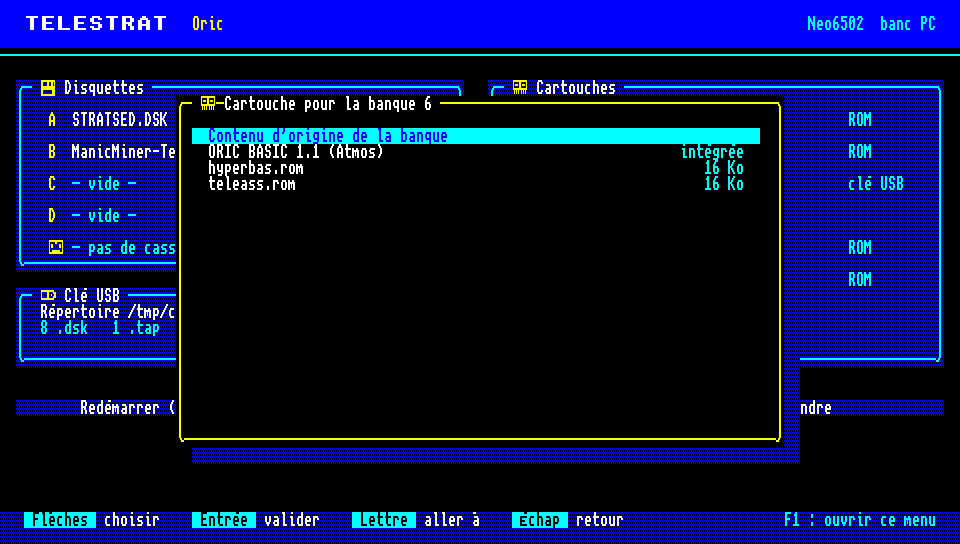
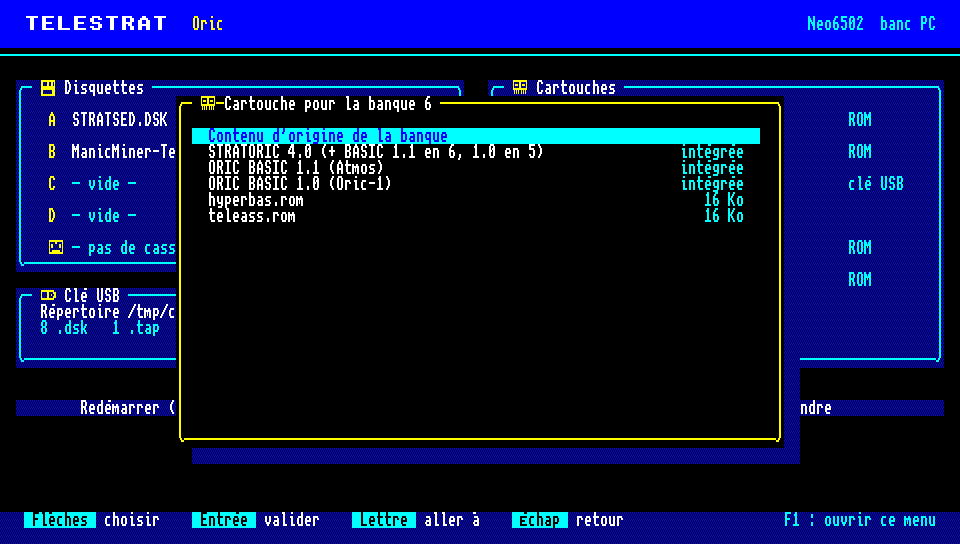
v0.10.0 : cartouche STRATORIC intégrée, disquettes SEDORIC
- STRATORIC 4.0 (jedeoric/stratoric) et ORIC BASIC V1.0 en flash ; cartouche
  complète choisie en banque 7 (banques 7, 6, 5), bank7=@stratoric.
- Au banc : STRATORIC V4.0, BASIC, cassette, disquettes SEDORIC (3D Munch).
- tests/test_stratoric.sh (5) ; 201 tests unitaires.
- Variante RAM 64 Ko sans BONJOUR.COM : appel d'HYPER-BASIC à la banque 5
  vide expliqué et documenté.

Changed region(s): [[0.2188, 0.25, 0.4062, 0.4062], [0.7188, 0.2812, 0.7812, 0.4062], [0.5, 0.25, 0.5625, 0.2812]]

diff --git a/src/osd/rom_builtin.h b/src/osd/rom_builtin.h
@@ -11,14 +11,24 @@
 
 typedef struct {
     const char* id;     // TELESTRA.CFG
-    const char* label;  // menu
+    const char* label;  // menu (choix d'une cartouche)
+    const char* name;   // panneau des cartouches (court)
     const uint8_t* rom; // 16 Ko en flash
+    // Cartouche complète : autres banques chargées avec celle-ci (banque 0 : fin)
+    struct {
+        int bank;
+        const char* id;
+    } with[2];
 } rom_builtin_t;
 
-// Cartouche Atmos : ORIC EXTENDED BASIC V1.1, en banque 7 pour le mode Atmos
-// (lecteur de cassette)
+// STRATORIC (manuel du développeur Telestrat) : banque 7 SEDORIC + démarrage,
+// 6 ORIC BASIC V1.1, 5 ORIC BASIC V1.0 — mode Atmos avec disquettes SEDORIC et
+// cassettes. ORIC BASIC 1.1 seul en banque 7 : mode Atmos simple (cassettes).
 static const rom_builtin_t rom_builtins[] = {
-    {"@atmos", "ORIC BASIC 1.1 (Atmos)", telestrat_atmos},
+    {"@stratoric", "STRATORIC 4.0 (+ BASIC 1.1 en 6, 1.0 en 5)", "STRATORIC 4.0", telestrat_stratoric,
+     {{6, "@atmos"}, {5, "@basic10"}}},
+    {"@atmos", "ORIC BASIC 1.1 (Atmos)", "ORIC BASIC 1.1", telestrat_atmos, {{0, NULL}, {0, NULL}}},
+    {"@basic10", "ORIC BASIC 1.0 (Oric-1)", "ORIC BASIC 1.0", telestrat_basic10, {{0, NULL}, {0, NULL}}},
 };
 #define ROM_BUILTINS ((int)(sizeof(rom_builtins) / sizeof(rom_builtins[0])))
 
@@ -29,18 +39,29 @@ static inline const rom_builtin_t* rom_builtin_find(const char* name) {
     return NULL;
 }
 
-// Libellé du contenu d'une banque tenu par le pool (cartouche de la clé ou ROM intégrée)
+// Nom du contenu d'une banque tenu par le pool (cartouche de la clé ou ROM intégrée)
 static inline const char* rom_builtin_label(const char* pool_name) {
     const rom_builtin_t* b = pool_name[0] == '@' ? rom_builtin_find(pool_name) : NULL;
-    return b ? b->label : pool_name;
+    return b ? b->name : pool_name;
 }
 
-// ROM intégrée en banque (emplacement du pool) ; false et *err si impossible
-static inline bool rom_pool_load_builtin(rom_pool_t* p, telestrat_t* sys, int bank, const rom_builtin_t* b,
-                                         const char** err) {
+static inline bool _rom_pool_load_one(rom_pool_t* p, telestrat_t* sys, int bank, const rom_builtin_t* b,
+                                      const char** err) {
     uint8_t* dst = rom_pool_claim(p, sys, bank, OSD_BANK_BYTES, err);
     if (!dst) return false;
     memcpy(dst, b->rom, OSD_BANK_BYTES);
     rom_pool_commit(p, sys, bank, OSD_BANK_BYTES, b->id);
+    return true;
+}
+
+// ROM intégrée en banque (emplacement du pool), avec les autres banques d'une
+// cartouche complète ; false et *err si l'une d'elles n'a pas de place
+static inline bool rom_pool_load_builtin(rom_pool_t* p, telestrat_t* sys, int bank, const rom_builtin_t* b,
+                                         const char** err) {
+    if (!_rom_pool_load_one(p, sys, bank, b, err)) return false;
+    for (int i = 0; i < 2; i++) {
+        const rom_builtin_t* w = b->with[i].bank ? rom_builtin_find(b->with[i].id) : NULL;
+        if (w && !_rom_pool_load_one(p, sys, b->with[i].bank, w, err)) return false;
+    }
     return true;
 }

diff --git a/tests/test_telestrat.c b/tests/test_telestrat.c
@@ -30,6 +30,8 @@
 #include "osd/osd_config.h"
 #include "systems/telestrat.h"
 #include "osd/rom_pool.h"
+#include "roms/telestrat_roms.h"
+#include "osd/rom_builtin.h"
 #include "telestrat_video.h"
 
 static int failures = 0, checks = 0;
@@ -141,6 +143,28 @@ static void test_rom_pool(void) {
     dst = rom_pool_claim(&p, &sys, 1, sizeof(img), &err);
     rom_pool_abort(&p, &sys, 1);
     CHECK(rom_pool_free(&p) == 1 && sys.bank_type[1] == TELESTRAT_BANK_RAM, "lecture échouée : banque 1 rendue à sa RAM");
+}
+
+// ROM intégrées : cartouche STRATORIC complète (banques 7, 6, 5)
+static void test_rom_builtin(void) {
+    static uint8_t slots[3][OSD_BANK_BYTES];
+    rom_pool_t p;
+    rom_pool_init(&p, slots, 3);
+    boot();
+    const char* err = "";
+    const rom_builtin_t* s = rom_builtin_find("@stratoric");
+    CHECK(s && rom_builtin_find("ORIC BASIC 1.1 (Atmos)") == &rom_builtins[1], "recherche par identifiant et libellé");
+    CHECK(rom_pool_load_builtin(&p, &sys, 7, s, &err), "STRATORIC chargée (%s)", err);
+    CHECK(sys.bank_rd[7] && !memcmp(sys.bank_rd[7], telestrat_stratoric, 16) && !memcmp(sys.bank_rd[6], telestrat_atmos, 16) &&
+              !memcmp(sys.bank_rd[5], telestrat_basic10, 16),
+          "banques 7, 6, 5 : STRATORIC, BASIC 1.1, BASIC 1.0");
+    CHECK(!strcmp(rom_builtin_label(p.name[7]), "STRATORIC 4.0") && !strcmp(p.name[5], "@basic10"),
+          "noms : panneau court, identifiant pour TELESTRA.CFG");
+    rom_pool_t q;
+    rom_pool_init(&q, slots, 2);
+    boot();
+    CHECK(!rom_pool_load_builtin(&q, &sys, 7, s, &err) && strstr(err, "plus de place"), "deux emplacements : plus de place");
+    telestrat_select_bank(&sys, 7);
 }
 
 static void test_bank_switch_and_ram(void) {
@@ -1342,6 +1366,7 @@ int main(void) {
     test_reset_bank();
     test_bank_hot_swap();
     test_rom_pool();
+    test_rom_builtin();
     test_bank_switch_and_ram();
     test_bank_ddr_keeps_inputs();
     test_fdc_no_disk();

diff --git a/tools/fetch_roms.py b/tools/fetch_roms.py
@@ -38,6 +38,14 @@ ROMS = [
     # banque 7 pour démarrer en mode Atmos (lecteur de cassette).
     ("telestrat_atmos", 0x4000, 0x0000, "a330779c42ad7d0c4ac6ef9e92788ec6",
      os.path.join(HOME, "reload-emulator/src/roms/oric_roms.h"), None),
+    # Cartouche STRATORIC (manuel du développeur Telestrat, F. Broche 1987) :
+    # banque 7 SEDORIC + démarrage, banque 6 ORIC BASIC V1.1, banque 5 ORIC
+    # BASIC V1.0 — mode Atmos avec disquettes SEDORIC et cassettes
+    ("telestrat_stratoric", 0x4000, 0x0000, "19c56dfcab72a082f449d2bc6ec15032",
+     os.path.join(HOME, "stratoric/B7STRA40.ROM"),
+     "https://raw.githubusercontent.com/jedeoric/stratoric/master/B7STRA40.ROM"),
+    ("telestrat_basic10", 0x4000, 0x0000, "ebe418ec8a6c85d5ac32956c9a96c179",
+     os.path.join(HOME, "Oric1/roms/basic10.rom"), None),
 ]
 
 

diff --git a/README.md b/README.md
@@ -118,9 +118,19 @@ sans redémarrer (les cartouches déjà chargées restent). Une piste modifiée
 mais pas encore réécrite au moment du retrait est perdue. **Non essayé sur
 carte.**
 
-**Mode Atmos et cassettes** : le firmware intègre la cartouche Atmos (ORIC
-EXTENDED BASIC V1.1). Menu : banque 7 → « ORIC BASIC 1.1 (Atmos) », Cassette →
-un `.tap`, Redémarrer ; puis `CLOAD""` (et `RUN`). `CSAVE"NOM"` enregistre
+**Cartouche STRATORIC (mode Atmos, disquettes SEDORIC)** : intégrée au
+firmware, comme la décrit le manuel du développeur Telestrat (banque 7 SEDORIC
++ démarrage, 6 ORIC BASIC V1.1, 5 ORIC BASIC V1.0). Menu : banque 7 →
+« STRATORIC 4.0 » (charge les trois banques), Redémarrer : « STRATORIC V4.0 ».
+Les disquettes SEDORIC des jeux Oric/Atmos démarrent (« 3D Munch » de
+Loriciels au banc), et les cassettes se lisent. `TELESTRA.CFG` :
+`bank7=@stratoric`. Il faut l'emplacement supplémentaire : pas avec la
+variante RAM 64 Ko.
+
+![STRATORIC, disquette SEDORIC](docs/images/stratoric_sedoric.png)
+
+**Mode Atmos simple et cassettes** : banque 7 → « ORIC BASIC 1.1 (Atmos) »,
+Cassette → un `.tap`, Redémarrer ; puis `CLOAD""` (et `RUN`). `CSAVE"NOM"` enregistre
 `NOM.TAP` à la racine de la clé. Pendant la lecture ou l'écriture, un bandeau
 sous l'image montre la cassette et sa position. TELEMON et
 HYPER-BASIC n'ont pas de chargeur de cassette : le mode Atmos est le moyen de
@@ -142,7 +152,7 @@ dial=hôte:port         # composé par ATD quand le Minitel émulé se connecte
 rs232=usb              # prise RS232 : modem USB (défaut) ou uext
 a=STRATSED.DSK         # lecteurs A à D (a= … d=), écrits par le menu
 bank5=orix.rom         # cartouches de la clé (bank1= … bank7=), écrites par le menu
-bank7=@atmos           # ROM intégrée : cartouche Atmos (BASIC 1.1)
+bank7=@stratoric       # ROM intégrée : STRATORIC (banques 7, 6, 5) ; @atmos : BASIC 1.1 seul
 imprimante=IMPRIM.TXT  # sortie de l'imprimante, ajoutée à ce fichier (vide : pas d'impression)
 ```
 

diff --git a/docs/ARCHITECTURE.md b/docs/ARCHITECTURE.md
@@ -272,6 +272,28 @@ libre : environ 16,7 Ko (standard), 2,2 Ko (RAM 64 Ko), plus le tas de 2 Ko.
 v0.9.0 (enregistreur, imprimante) : 14 Ko (standard), **208 octets** (RAM
 64 Ko) — la variante RAM 64 Ko n'a plus de marge.
 
+## STRATORIC et banques vides (sprint 10)
+
+**STRATORIC** (dépôt jedeoric/stratoric, `B7STRA40.ROM`) : cartouche du mode
+Atmos du Telestrat d'après le manuel du développeur (F. Broche, 1987, page 3) :
+banque 7 SEDORIC + démarrage, 6 ORIC BASIC V1.1, 5 ORIC BASIC V1.0. Intégrée
+(`rom_builtin.h`) comme « cartouche complète » : choisie en banque 7, elle
+charge aussi les banques 6 et 5 (emplacement supplémentaire). Au banc :
+« STRATORIC V4.0 », BASIC, cassette, disquette SEDORIC (3D Munch).
+
+**Banque vide et démarrage à froid d'HYPER-BASIC** (enquête v0.9.1) : sans
+`BONJOUR.COM` sur la disquette (`FLGTEL` `$020D` bit 2), HYPER-BASIC lancé
+seul appelle `$C000` de la banque 5 (`$FFAC` : EXBNK) — là où la cartouche
+« TELE-ASS gauche » met TELE-ASS. Banque 5 vide (cartouche HYPER-BASIC seule
+à gauche, cartouche RAM 64 Ko à droite : configuration de la notice), notre
+bus flottant renvoie des octets pseudo-aléatoires, l'exécution s'égare et
+TELEMON est relancé, sans langage : « Logiciel ecrit par Fabrice BROCHE ».
+Avec deux langages, TELEMON affiche son menu et entre autrement dans
+HYPER-BASIC (pas d'appel à la banque 5) ; avec un `BONJOUR.COM`, la variante
+RAM 64 Ko démarre (« 44 Ko libres »). Ce que renvoie une banque vide sur un
+vrai Telestrat (bus flottant, rappel à `$FF`…) : **non établi** (manuel du
+développeur : l'octet d'état `$FFFB` a un bit 4 « ignorer la banque »).
+
 ## Imprimante et clé retirée (sprint 9)
 
 **Imprimante** : le système appelle `printer_out` à chaque octet (STROBE,

diff --git a/docs/TESTS.md b/docs/TESTS.md
@@ -2,7 +2,7 @@
 
 `make` (ou `make test`) compile et lance tout. Aucune carte n'est nécessaire.
 
-## Tests unitaires — `tests/test_telestrat.c` (196 vérifications)
+## Tests unitaires — `tests/test_telestrat.c` (201 vérifications)
 
 Programme 6502 synthétique en banque 7, exécuté par le cœur W65C02S de reload :
 
@@ -44,6 +44,8 @@ Programme 6502 synthétique en banque 7, exécuté par le cœur W65C02S de reloa
   A, `b=`/`d=` sans casse, nom inconnu ignoré, image demandée deux fois ;
 - cartouche changée à chaud (`telestrat_set_bank_rom`), lecture seule,
   contenu d'origine rendu (ROM, RAM), banque courante vidée ;
+- ROM intégrées (`rom_builtin.h`) : STRATORIC charge les banques 7, 6 et 5,
+  noms court et identifiant, plus de place avec deux emplacements ;
 - emplacements de banque (`rom_pool.h`) : ROM intégrée copiée, le 65C02
   tourne depuis l'emplacement, cartouche à la place d'une ROM (même
   emplacement), 8 Ko répétés, emplacement supplémentaire, plus de place,
@@ -170,6 +172,14 @@ et exige 0 différence : octet placé sur le bus et ligne IRQ à chaque cycle,
 |---|---|
 | A (20 M cycles, config. `oricutron`) | démarrage STRATSED, HYPER-BASIC, PING, ZAP, DIR |
 | B (60 M cycles, config. `standard`) | serveur TELEMATIC : sonnerie, connexion, pages, ENVOI, raccrochage |
+
+## STRATORIC — `tests/test_stratoric.sh` (5 vérifications)
+
+Telestrat standard, répertoire-clé (`-U`) : `bank7=@stratoric` → « STRATORIC
+V4.0 », `PRINT 6*7` ; par le menu (banque 7 → STRATORIC, RESET) ; cassette
+(programme fait en mode Atmos, `CLOAD`, `RUN`) ; disquette SEDORIC « 3D Munch »
+(si présente) : copyright Loriciels dans les lignes de texte du mode HIRES
+(`$BF68`).
 
 ## Oracle Oricutron — `tools/oracle/oracle.sh` (manuel)
 

diff --git a/docs/REFERENCES.md b/docs/REFERENCES.md
@@ -29,3 +29,8 @@
 | `AIGLE.TAP` (« L'Aigle d'Or », Loriciels 1984), `~/Téléchargements` | essai manuel de chargement |
 | ROM BASIC 1.1 désassemblée (da65) | écriture d'un octet `$E65E` (trame de 13 bits, parité), lecture d'un bit `$E71C` |
 | Oricutron 1.2.0 (rev. 002279f, `~/oricutron`) avec `tools/oracle/oricutron-dump.patch` | oracle sans fenêtre (écran texte après N trames) : STRATSED sans TELE-ASS |
+| [jedeoric/stratoric](https://github.com/jedeoric/stratoric) (`B7STRA40.ROM`, md5 `19c56dfcab72a082f449d2bc6ec15032`) | cartouche STRATORIC 4.0 (banque 7) |
+| `~/Oric1/roms/basic10.rom` (local, md5 `ebe418ec8a6c85d5ac32956c9a96c179`) | ORIC BASIC V1.0 (banque 5 de STRATORIC) |
+| Manuel du développeur Telestrat (F. Broche, ORIC International 1987), `~/Téléchargements/manuel_developpeur_telestrat.pdf` — fourni par le PO | répartition des banques par cartouche (page 3), entête de banque `$FFF8`-`$FFFF` (bit 4 : ignorer) |
+| « Telestrat à cœur ouvert », « Telestrat, le système m'était conté » (`~/Téléchargements`) — fournis par le PO | matériel et système (OCR local en cours de dépouillement) |
+| Source commentée d'HYPER-BASIC (`FLGTEL` bit 2 = BONJOUR.COM, `$FFAC`) | appel de la banque 5 au démarrage à froid |

diff --git a/docs/BACKLOG.md b/docs/BACKLOG.md
@@ -116,6 +116,14 @@ Arrivée : 170 cycles, charge 59-68 % en moyenne, 76 % au pire, 0 trame hors bud
 | US-91 | Clé retirée puis rebranchée : lecteurs vidés puis remis, sans redémarrer | ✅ code, ⏳ carte (non testable au banc) |
 | US-92 | Oracle Oricutron sans fenêtre (v0.8.1) | ✅ |
 
+## Sprint 10 — v0.10.0 — « STRATORIC » ✅ au banc (2026-09-29)
+
+| US | Récit | État |
+|---|---|---|
+| US-100 | Cartouche STRATORIC intégrée (banques 7, 6, 5), `bank7=@stratoric` | ✅ banc : STRATORIC V4.0, BASIC, cassette |
+| US-101 | Disquettes SEDORIC (jeux Oric/Atmos) | ✅ 3D Munch, démo 1337 au banc |
+| US-102 | Démarrage de la variante RAM 64 Ko sans `BONJOUR.COM` expliqué (appel d'HYPER-BASIC à la banque 5 vide) | ✅ expliqué ; ⏳ lecture d'une banque vide sur le vrai matériel |
+
 ## Plus tard
 
 - Essai et réglage sur carte (temps de bus, son, DVI, accès USB, modem).
